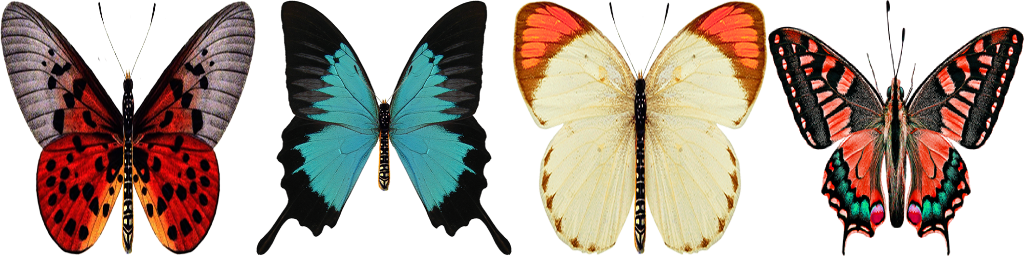
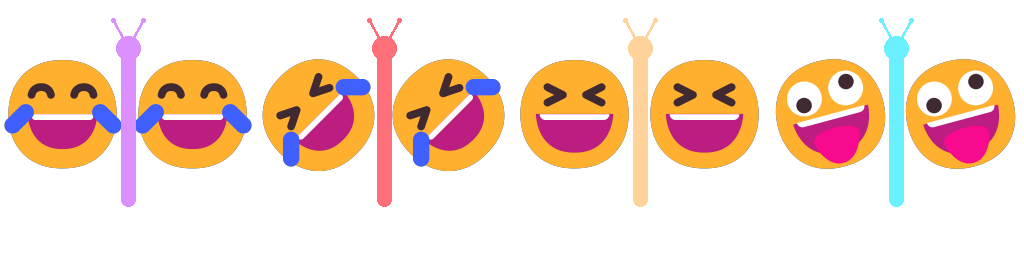
feat: add animated flower component and butterfly generation script

diff --git a/src/flower.css b/src/flower.css
@@ -979,6 +979,32 @@
   animation-play-state: paused !important;
 }
 
+/* Emoji Flower Bloom Styles */
+.emoji-flower {
+  position: absolute;
+  left: 50%;
+  bottom: 0;
+  transform: translate(-50%, -20%) scale(0);
+  font-size: 13vmin;
+  line-height: 1;
+  text-shadow: 0 0 20px rgba(220, 143, 255, 0.6), 0 0 10px rgba(255, 111, 121, 0.4);
+  transform-origin: center bottom;
+  animation: bloom-emoji 1.6s cubic-bezier(0.34, 1.56, 0.64, 1) forwards;
+  z-index: 5;
+  user-select: none;
+}
+
+@keyframes bloom-emoji {
+  0% {
+    transform: translate(-50%, 0) scale(0) rotate(-45deg);
+    opacity: 0;
+  }
+  100% {
+    transform: translate(-50%, -20%) scale(1) rotate(0deg);
+    opacity: 1;
+  }
+}
+
 /* Blend top edge into page using mask — no z-index conflict */
 .flower-section {
   -webkit-mask-image: linear-gradient(to bottom, transparent 0%, black 22%, black 100%);

diff --git a/src/Flower.jsx b/src/Flower.jsx
@@ -31,11 +31,7 @@ export default function Flower() {
         {/* Flower 1 */}
         <div className="flower flower--1">
           <div className="flower__leafs flower__leafs--1">
-            <div className="flower__leaf flower__leaf--1" />
-            <div className="flower__leaf flower__leaf--2" />
-            <div className="flower__leaf flower__leaf--3" />
-            <div className="flower__leaf flower__leaf--4" />
-            <div className="flower__white-circle" />
+            <div className="emoji-flower">😂</div>
             <div className="flower__light flower__light--1" />
             <div className="flower__light flower__light--2" />
             <div className="flower__light flower__light--3" />
@@ -58,11 +54,7 @@ export default function Flower() {
         {/* Flower 2 */}
         <div className="flower flower--2">
           <div className="flower__leafs flower__leafs--2">
-            <div className="flower__leaf flower__leaf--1" />
-            <div className="flower__leaf flower__leaf--2" />
-            <div className="flower__leaf flower__leaf--3" />
-            <div className="flower__leaf flower__leaf--4" />
-            <div className="flower__white-circle" />
+            <div className="emoji-flower">🤣</div>
             <div className="flower__light flower__light--1" />
             <div className="flower__light flower__light--2" />
             <div className="flower__light flower__light--3" />
@@ -83,11 +75,7 @@ export default function Flower() {
         {/* Flower 3 */}
         <div className="flower flower--3">
           <div className="flower__leafs flower__leafs--3">
-            <div className="flower__leaf flower__leaf--1" />
-            <div className="flower__leaf flower__leaf--2" />
-            <div className="flower__leaf flower__leaf--3" />
-            <div className="flower__leaf flower__leaf--4" />
-            <div className="flower__white-circle" />
+            <div className="emoji-flower">🤪</div>
             <div className="flower__light flower__light--1" />
             <div className="flower__light flower__light--2" />
             <div className="flower__light flower__light--3" />

diff --git a/generate_butterflies.py b/generate_butterflies.py
@@ -1,0 +1,72 @@
+import os
+from PIL import Image, ImageDraw, ImageFont
+
+def generate():
+    # Final image dimensions: 4 panels of 256x256 = 1024x256
+    width, height = 1024, 256
+    img = Image.new("RGBA", (width, height), (0, 0, 0, 0))
+    draw = ImageDraw.Draw(img)
+    
+    font_path = "C:\\Windows\\Fonts\\seguiemj.ttf"
+    # Font size 110 fits well within a 128x256 half-cell
+    font = ImageFont.truetype(font_path, 110)
+    
+    # Emojis for the 4 butterfly panels
+    emoji_sets = [
+        ("😂", "😂"),  # Panel 0: Tears of Joy
+        ("🤣", "🤣"),  # Panel 1: Rolling Laughing
+        ("😆", "😆"),  # Panel 2: Squinting Laughing
+        ("🤪", "🤪")   # Panel 3: Zany face
+    ]
+    
+    # Theme colors for the butterfly bodies
+    body_colors = [
+        (220, 143, 255, 255),  # Purple
+        (255, 111, 121, 255),  # Pink
+        (255, 211, 154, 255),  # Yellow-orange
+        (107, 240, 255, 255)   # Light Blue
+    ]
+    
+    for i in range(4):
+        offset_x = i * 256
+        left_emoji, right_emoji = emoji_sets[i]
+        body_color = body_colors[i]
+        
+        # Center of the cell is offset_x + 128
+        center_x = offset_x + 128
+        
+        # Draw Left Wing (adjusting text anchor to center-right or center)
+        # Using "mm" (middle, middle) anchor for exact positioning
+        draw.text((center_x - 65, 128), left_emoji, font=font, anchor="mm", embedded_color=True)
+        
+        # Draw Right Wing
+        draw.text((center_x + 65, 128), right_emoji, font=font, anchor="mm", embedded_color=True)
+        
+        # Draw Body (a vertical capsule)
+        # Bounding box for the body: center_x-6, 50 to center_x+6, 206
+        draw.rounded_rectangle(
+            [center_x - 7, 50, center_x + 7, 206],
+            radius=7,
+            fill=body_color
+        )
+        
+        # Draw Head (a small circle)
+        draw.ellipse(
+            [center_x - 12, 36, center_x + 12, 60],
+            fill=body_color
+        )
+        
+        # Draw Antennae (two small lines)
+        draw.line([center_x - 4, 40, center_x - 15, 20], fill=body_color, width=3)
+        draw.line([center_x + 4, 40, center_x + 15, 20], fill=body_color, width=3)
+        
+        # Draw Antenna tips (small dots)
+        draw.ellipse([center_x - 17, 18, center_x - 13, 22], fill=body_color)
+        draw.ellipse([center_x + 13, 18, center_x + 17, 22], fill=body_color)
+        
+    output_path = "public/butterflies.png"
+    img.save(output_path)
+    print("Custom emoji butterflies texture generated and saved to:", output_path)
+
+if __name__ == "__main__":
+    generate()